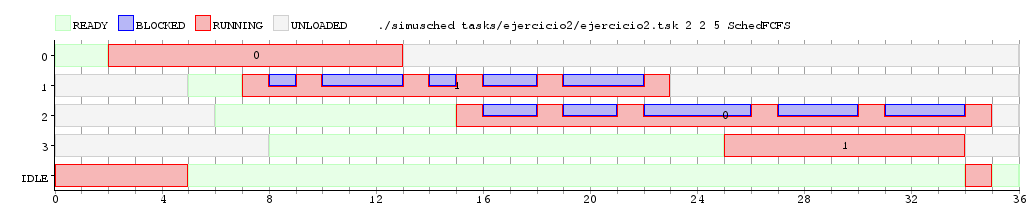
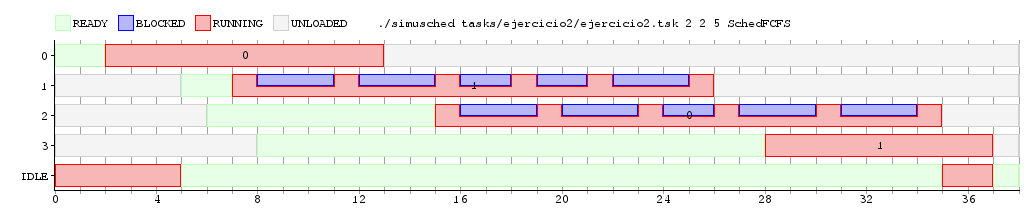
listo puntos 3 y 4

diff --git a/TPs/TP1/simusched/sched_rr.cpp b/TPs/TP1/simusched/sched_rr.cpp
@@ -1,5 +1,6 @@
 #include <vector>
 #include <queue>
+#include <list>
 #include "sched_rr.h"
 #include "basesched.h"
 #include <iostream>
@@ -8,6 +9,17 @@ using namespace std;
 
 SchedRR::SchedRR(vector<int> argn) {
 	// Round robin recibe la cantidad de cores y sus cpu_quantum por parámetro
+	int cant_cores = argn[0];
+
+	cpu_quantum = std::vector<int>(cant_cores);
+	quantums_restantes = std::vector<int>(cant_cores);
+
+	for(int i = 0; i < cant_cores; i++){
+
+		cpu_quantum[i] = argn[i + 1];
+		quantums_restantes[i] = argn[i + 1];
+	}
+
 }
 
 SchedRR::~SchedRR() {
@@ -16,11 +28,72 @@ SchedRR::~SchedRR() {
 
 
 void SchedRR::load(int pid) {
+
+	cola_ready.push_back(pid); //Entra en la cola ready
+
 }
 
 void SchedRR::unblock(int pid) {
+
+	cola_ready.push_back(pid); //Vuelve a la cola ready
+
 }
 
 int SchedRR::tick(int cpu, const enum Motivo m) {
+
+	int pid = current_pid(cpu);
+
+	switch (m) {
+		case TICK:
+			if(pid == IDLE_TASK) {
+				// No estabamos haciendo nada, 3legimos el proximo proceso
+				pid = next(cpu);
+			} else if(--quantums_restantes[cpu] == 0) {
+				// Se acabo el quantum, reencolamos este proceso porque todavia no termino
+				cola_ready.push_back(pid);
+				// Elegimos el proximo proceso
+				pid = next(cpu);
+			}
+			break;
+		case EXIT:
+			// Por si en el ciclo anterior paso a ready
+			cola_ready.remove(pid);
+			// Cambiamos el pid si termino el proceso
+			pid = next(cpu);
+			break;
+		case BLOCK:
+			// Bloqueo el proceso, vamos al proximo, no se reinserta en la cola porque eso ocurre en el unblock
+			pid = next(cpu);
+			break;
+	}
+
+return pid;
+
 }
 
+int SchedRR::next(int cpu) {
+
+	reset_quantum(cpu);
+	return get_next_from_queue();
+
+}
+
+void SchedRR::reset_quantum(int cpu) {
+
+	quantums_restantes[cpu] = cpu_quantum[cpu];
+
+}
+
+int SchedRR::get_next_from_queue() {
+
+	int next_pid = IDLE_TASK;
+
+	if(!cola_ready.empty()) {
+
+		next_pid = cola_ready.front();
+	 	cola_ready.pop_front();
+
+	}
+
+	return next_pid;
+}

diff --git a/TPs/TP1/simusched/tasks.cpp b/TPs/TP1/simusched/tasks.cpp
@@ -37,9 +37,16 @@ void TaskConsola(int pid, vector<int> params) { // params: n, bmin, bmax
 }
 
 void TaskPajarillo(int pid, vector<int> params) { // params: cantidad_de_repeticiones, tiempo_cpu, tiempo_bloqueo
-	int n = params[0];
-	int bmin = params[1];
-	int bmax = params[2];
+	int cantidad_de_repeticiones = params[0];
+	int tiempo_cpu = params[1];
+	int tiempo_bloqueo = params[2];
+
+	for (int i = 0; i < cantidad_de_repeticiones; ++i) {
+
+		uso_CPU(pid, tiempo_cpu - 1);
+		uso_IO(pid, tiempo_bloqueo);
+
+	}
 
 
 }

diff --git a/TPs/TP1/simusched/sched_rr.h b/TPs/TP1/simusched/sched_rr.h
@@ -3,6 +3,7 @@
 
 #include <vector>
 #include <queue>
+#include <list>
 #include "basesched.h"
 
 class SchedRR : public SchedBase {
@@ -14,7 +15,12 @@ class SchedRR : public SchedBase {
 		virtual int tick(int cpu, const enum Motivo m);
 
 	private:
-		// Completar
+		std::list<int> cola_ready;
+		std::vector<int> cpu_quantum;
+		std::vector<int> quantums_restantes;
+		int next(int cpu);
+		void reset_quantum(int cpu);
+		int get_next_from_queue();
 };
 
 #endif
